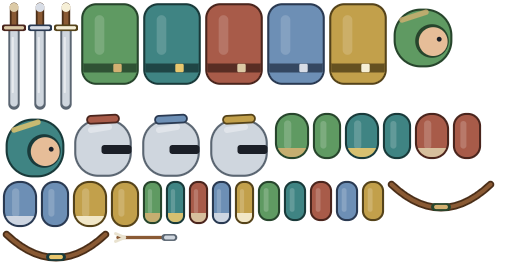
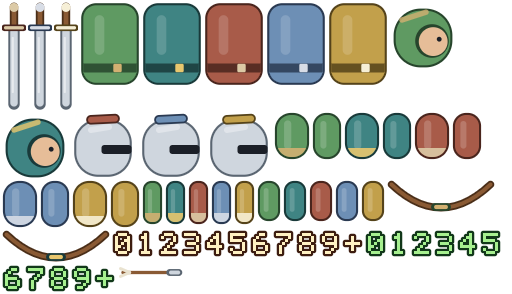
feat(render): liczby obrażeń i leczenia z puli (M2-7)
Atlas placeholder dostał dwa zestawy cyfr (obrażenia, leczenie z plusem).
Liczby pojawiają się nad trafioną albo uleczoną jednostką, unoszą się
i zanikają; pochodzą z puli stałej wielkości i są rysowane cyframi
z atlasu, bez tworzenia napisów. Błysk trafienia działa od M2-5, a odrzut
jest wygładzany interpolacją pozycji między tickami.

Przewijanie w piaskownicy rysuje klatkę po każdym ticku, żeby efekty
starzały się jak przy odtwarzaniu.

diff --git a/src/render/canvas-renderer.ts b/src/render/canvas-renderer.ts
@@ -2,8 +2,11 @@
 // tablic, domknięć ani napisów tworzonych co klatkę. Wszystkie bufory powstają raz.
 import type { UnitVisual } from '../content/compile.ts';
 import type { RawRig } from '../content/schema-rig.ts';
+import { createRng, nextRange } from '../core/rng.ts';
 import {
   type Battle,
+  EVENT_DAMAGED,
+  EVENT_HEALED,
   type EventBuffer,
   isAlive,
   MAX_PROJECTILES,
@@ -25,6 +28,18 @@ import {
 import { type Atlas, type Sprite, VARIANT_DARK, VARIANT_NORMAL, VARIANT_WHITE } from './atlas.ts';
 import { drawBackground } from './background.ts';
 import { type Camera, createCamera, fitCamera, GROUND_Y } from './camera.ts';
+import {
+  clearFloatTexts,
+  createFloatTexts,
+  digitAt,
+  digitCount,
+  FLOAT_KIND_DAMAGE,
+  FLOAT_KIND_HEAL,
+  FLOAT_LIFE_MS,
+  FLOAT_RISE,
+  spawnFloatText,
+  updateFloatTexts,
+} from './float-text.ts';
 import type { Renderer } from './renderer.ts';
 import {
   type CompiledRig,
@@ -37,6 +52,9 @@ import {
 import type { Viewport } from './viewport.ts';
 
 const STRING_COLOR = '#e9e2cf';
+/** Skala cyfr liczb nad jednostkami i odstęp między nimi, w jednostkach logicznych sceny. */
+const NUMBER_SCALE = 2;
+const NUMBER_ADVANCE = 11;
 const HP_BACK = '#11151c';
 const HP_PLAYER = '#7fd36b';
 const HP_ENEMY = '#e0705c';
@@ -86,6 +104,80 @@ export function createCanvasRenderer(
   const boneSprites: (Sprite | null)[] = new Array(MAX_UNITS * maxBones).fill(null);
   const projectileSprites: (Sprite | null)[] = new Array(MAX_UNITS).fill(null);
   let battle: Battle | null = null;
+
+  // Liczby obrażeń i leczenia: cyfry z atlasu, rozrzut poziomy z RNG kosmetycznego.
+  const floatTexts = createFloatTexts();
+  const jitter = createRng(1);
+  const digitSprites: (Sprite | null)[] = [];
+  for (const set of ['dmg', 'heal']) {
+    for (let digit = 0; digit <= 9; digit++) {
+      digitSprites.push(atlas.sprites.get(`fx/${set}_${digit}`) ?? null);
+    }
+  }
+  const plusSprite = atlas.sprites.get('fx/heal_plus') ?? null;
+
+  /** Dodaje liczbę nad głową jednostki; pozycja ze stanu po ostatnim ticku. */
+  function spawnNumber(current: Battle, unit: number, value: number, kind: number): void {
+    const look = looks[unit];
+    if (look === null || look === undefined) return;
+    const facing = unit < TEAM_SIZE ? 1 : -1;
+    const slot = unit < TEAM_SIZE ? unit : unit - TEAM_SIZE;
+    const x = (current.state.x[unit] ?? 0) * camera.scale - facing * slot * LANE_SHIFT;
+    const head =
+      GROUND_Y + LANE_FRONT - slot * LANE_STEP - (look.rig.hipHeight + UPPER_BODY) * look.scale;
+    spawnFloatText(floatTexts, x + nextRange(jitter, -10, 10), head - 20, value, kind);
+  }
+
+  function drawGlyph(
+    image: CanvasImageSource,
+    sprite: Sprite | null | undefined,
+    s: number,
+    x: number,
+    y: number,
+  ): void {
+    if (sprite === null || sprite === undefined) return;
+    const scale = NUMBER_SCALE * s;
+    ctx.setTransform(scale, 0, 0, scale, x * s, y * s);
+    ctx.drawImage(
+      image,
+      sprite.sx,
+      sprite.sy,
+      sprite.sw,
+      sprite.sh,
+      -sprite.pivotX,
+      -sprite.pivotY,
+      sprite.width,
+      sprite.height,
+    );
+  }
+
+  function drawNumbers(viewport: Viewport): void {
+    const image = atlas.images[VARIANT_NORMAL];
+    if (image === undefined) return;
+    for (let i = 0; i < floatTexts.count; i++) {
+      const text = floatTexts.items[i];
+      if (text === undefined) continue;
+      const progress = text.ageMs / FLOAT_LIFE_MS;
+      // Szybki start, łagodne wyhamowanie; zanikanie dopiero pod koniec.
+      const y = text.y - FLOAT_RISE * (1 - (1 - progress) * (1 - progress));
+      ctx.globalAlpha = progress < 0.6 ? 1 : 1 - (progress - 0.6) / 0.4;
+
+      const heal = text.kind === FLOAT_KIND_HEAL;
+      const digits = digitCount(text.value);
+      const glyphs = heal ? digits + 1 : digits;
+      let x = text.x - ((glyphs - 1) * NUMBER_ADVANCE) / 2;
+      if (heal) {
+        drawGlyph(image, plusSprite, viewport.scale, x, y);
+        x += NUMBER_ADVANCE;
+      }
+      for (let d = 0; d < digits; d++) {
+        const sprite = digitSprites[(heal ? 10 : 0) + digitAt(text.value, digits, d)];
+        drawGlyph(image, sprite, viewport.scale, x, y);
+        x += NUMBER_ADVANCE;
+      }
+    }
+    ctx.globalAlpha = 1;
+  }
 
   function resolveLook(visual: UnitVisual): UnitLook {
     const rig = rigs.get(visual.rig);
@@ -329,6 +421,7 @@ export function createCanvasRenderer(
       battle = next;
       fitCamera(camera, next.width);
       resetAnimator(animator);
+      clearFloatTexts(floatTexts);
       boneSprites.fill(null);
       for (let unit = 0; unit < MAX_UNITS; unit++) {
         const visual = visuals[unit] ?? null;
@@ -350,16 +443,29 @@ export function createCanvasRenderer(
     },
     consume(events: EventBuffer): void {
       animatorOnEvents(animator, events);
+      if (battle === null) return;
+      for (let i = 0; i < events.count; i++) {
+        const type = events.type[i];
+        const value = events.b[i] ?? 0;
+        if (value <= 0) continue;
+        if (type === EVENT_DAMAGED) {
+          spawnNumber(battle, events.a[i] ?? 0, value, FLOAT_KIND_DAMAGE);
+        } else if (type === EVENT_HEALED) {
+          spawnNumber(battle, events.a[i] ?? 0, value, FLOAT_KIND_HEAL);
+        }
+      }
     },
     draw(viewport: Viewport, alpha: number, frameMs: number): void {
       drawBackground(ctx, viewport);
       if (battle === null) return;
+      updateFloatTexts(floatTexts, frameMs);
       // Od najdalszego slotu do najbliższego, żeby bliższe postacie zasłaniały dalsze.
       for (let slot = TEAM_SIZE - 1; slot >= 0; slot--) {
         drawUnit(battle, slot, viewport, alpha, frameMs);
         drawUnit(battle, TEAM_SIZE + slot, viewport, alpha, frameMs);
       }
       drawProjectiles(battle, viewport, alpha);
+      drawNumbers(viewport);
       ctx.setTransform(viewport.scale, 0, 0, viewport.scale, 0, 0);
     },
     endBattle(): void {

diff --git a/src/render/float-text.test.ts b/src/render/float-text.test.ts
@@ -1,0 +1,69 @@
+import { describe, expect, it } from 'vitest';
+import {
+  clearFloatTexts,
+  createFloatTexts,
+  digitAt,
+  digitCount,
+  FLOAT_KIND_DAMAGE,
+  FLOAT_KIND_HEAL,
+  FLOAT_LIFE_MS,
+  spawnFloatText,
+  updateFloatTexts,
+} from './float-text.ts';
+
+describe('liczby nad jednostkami', () => {
+  it('nowa liczba startuje z wiekiem zero w podanym miejscu', () => {
+    const texts = createFloatTexts();
+    spawnFloatText(texts, 100, 200, 40, FLOAT_KIND_DAMAGE);
+    expect(texts.count).toBe(1);
+    expect(texts.items[0]).toEqual({ x: 100, y: 200, value: 40, kind: 0, ageMs: 0 });
+  });
+
+  it('liczby starzeją się i znikają po czasie życia, młodsze zostają', () => {
+    const texts = createFloatTexts();
+    spawnFloatText(texts, 1, 0, 10, FLOAT_KIND_DAMAGE);
+    updateFloatTexts(texts, FLOAT_LIFE_MS - 100);
+    spawnFloatText(texts, 2, 0, 20, FLOAT_KIND_HEAL);
+    updateFloatTexts(texts, 150);
+    expect(texts.count).toBe(1);
+    expect(texts.items[0]?.value).toBe(20);
+    expect(texts.items[0]?.ageMs).toBe(150);
+  });
+
+  it('obiekty puli są używane ponownie', () => {
+    const texts = createFloatTexts();
+    spawnFloatText(texts, 0, 0, 1, FLOAT_KIND_DAMAGE);
+    const first = texts.items[0];
+    updateFloatTexts(texts, FLOAT_LIFE_MS);
+    expect(texts.count).toBe(0);
+    spawnFloatText(texts, 5, 6, 7, FLOAT_KIND_HEAL);
+    expect(texts.items[0]).toBe(first);
+    expect(first).toEqual({ x: 5, y: 6, value: 7, kind: 1, ageMs: 0 });
+  });
+
+  it('pełna pula pomija nowe liczby zamiast alokować', () => {
+    const texts = createFloatTexts();
+    const capacity = texts.items.length;
+    for (let i = 0; i < capacity + 10; i++) spawnFloatText(texts, i, 0, i, FLOAT_KIND_DAMAGE);
+    expect(texts.count).toBe(capacity);
+    expect(texts.items).toHaveLength(capacity);
+    clearFloatTexts(texts);
+    expect(texts.count).toBe(0);
+  });
+});
+
+describe('cyfry', () => {
+  it('liczy cyfry liczby', () => {
+    expect([0, 7, 10, 99, 100, 12345].map(digitCount)).toEqual([1, 1, 2, 2, 3, 5]);
+  });
+
+  it('zwraca cyfry od lewej', () => {
+    const digits = (value: number) => {
+      const count = digitCount(value);
+      return Array.from({ length: count }, (_, i) => digitAt(value, count, i));
+    };
+    expect(digits(0)).toEqual([0]);
+    expect(digits(40)).toEqual([4, 0]);
+    expect(digits(1205)).toEqual([1, 2, 0, 5]);
+  });
+});

diff --git a/scripts/lib/placeholder-parts.ts b/scripts/lib/placeholder-parts.ts
@@ -215,6 +215,44 @@ function arrow(): Image {
   return image;
 }
 
+/** Cyfry i plus dla liczb obrażeń i leczenia: font 5×7, wiersze od góry. */
+const GLYPHS: Readonly<Record<string, readonly string[]>> = {
+  '0': ['01110', '10001', '10011', '10101', '11001', '10001', '01110'],
+  '1': ['00100', '01100', '00100', '00100', '00100', '00100', '01110'],
+  '2': ['01110', '10001', '00001', '00010', '00100', '01000', '11111'],
+  '3': ['11110', '00001', '00001', '01110', '00001', '00001', '11110'],
+  '4': ['00010', '00110', '01010', '10010', '11111', '00010', '00010'],
+  '5': ['11111', '10000', '11110', '00001', '00001', '10001', '01110'],
+  '6': ['00110', '01000', '10000', '11110', '10001', '10001', '01110'],
+  '7': ['11111', '00001', '00010', '00100', '01000', '01000', '01000'],
+  '8': ['01110', '10001', '10001', '01110', '10001', '10001', '01110'],
+  '9': ['01110', '10001', '10001', '01111', '00001', '00010', '01100'],
+  plus: ['00000', '00100', '00100', '11111', '00100', '00100', '00000'],
+};
+
+/** Znak: komórka fontu to 1 jednostka rigu, plus margines 1 na obrys. */
+export const GLYPH: PartSpec = { width: 7, height: 9, pivotX: 3.5, pivotY: 4.5 };
+
+function glyph(rows: readonly string[], color: string, outline: string): Image {
+  const image = blank(GLYPH);
+  const cells: Shape[] = [];
+  rows.forEach((row, y) => {
+    for (let x = 0; x < row.length; x++) {
+      if (row[x] === '1') cells.push(box(1.5 + x, 1.5 + y, 0.5, 0.5, 0.12));
+    }
+  });
+  const shape = union(...cells);
+  fill(image, inset(shape, -0.75 * P), hex(outline));
+  fill(image, shape, hex(color));
+  return image;
+}
+
+/** Zestawy znaków: `fx/<zestaw>_<znak>`. */
+const GLYPH_SETS = [
+  { id: 'dmg', color: '#fff1c2', outline: '#3d1d10' },
+  { id: 'heal', color: '#a6f08f', outline: '#12381a' },
+] as const;
+
 export interface PlaceholderSprite {
   /** Nazwa w atlasie: `<skórka>/<kość lub slot>` albo `fx/<nazwa>`. */
   readonly name: string;
@@ -242,5 +280,14 @@ export function placeholderSprites(): PlaceholderSprite[] {
     );
   }
   sprites.push({ name: 'fx/arrow', part: PARTS.arrow, image: arrow() });
+  for (const set of GLYPH_SETS) {
+    for (const [name, rows] of Object.entries(GLYPHS)) {
+      sprites.push({
+        name: `fx/${set.id}_${name}`,
+        part: GLYPH,
+        image: glyph(rows, set.color, set.outline),
+      });
+    }
+  }
   return sprites;
 }

diff --git a/src/render/float-text.ts b/src/render/float-text.ts
@@ -1,0 +1,71 @@
+// Liczby obrażeń i leczenia unoszące się nad jednostkami. Pula stałej wielkości;
+// rysowanie z cyfr w atlasie, bez tworzenia napisów.
+import { createPool, type Pool, poolAcquire, poolClear, poolReleaseAt } from '../core/pool.ts';
+
+export const FLOAT_KIND_DAMAGE = 0;
+export const FLOAT_KIND_HEAL = 1;
+
+/** Czas życia liczby. */
+export const FLOAT_LIFE_MS = 800;
+/** Jak wysoko liczba unosi się przez swoje życie, w jednostkach logicznych sceny. */
+export const FLOAT_RISE = 34;
+const CAPACITY = 64;
+
+export interface FloatText {
+  x: number;
+  y: number;
+  value: number;
+  kind: number;
+  ageMs: number;
+}
+
+export type FloatTexts = Pool<FloatText>;
+
+export function createFloatTexts(): FloatTexts {
+  return createPool(CAPACITY, () => ({ x: 0, y: 0, value: 0, kind: 0, ageMs: 0 }));
+}
+
+/** Dodaje liczbę. Gdy pula jest pełna, nowa liczba przepada: starsze są ważniejsze niż komplet. */
+export function spawnFloatText(
+  texts: FloatTexts,
+  x: number,
+  y: number,
+  value: number,
+  kind: number,
+): void {
+  const text = poolAcquire(texts);
+  if (text === null) return;
+  text.x = x;
+  text.y = y;
+  text.value = value;
+  text.kind = kind;
+  text.ageMs = 0;
+}
+
+/** Postarza liczby i zwalnia te, których czas minął. */
+export function updateFloatTexts(texts: FloatTexts, dtMs: number): void {
+  for (let i = texts.count - 1; i >= 0; i--) {
+    const text = texts.items[i];
+    if (text === undefined) continue;
+    text.ageMs += dtMs;
+    if (text.ageMs >= FLOAT_LIFE_MS) poolReleaseAt(texts, i);
+  }
+}
+
+export function clearFloatTexts(texts: FloatTexts): void {
+  poolClear(texts);
+}
+
+/** Liczba cyfr dziesiętnych nieujemnej liczby całkowitej. */
+export function digitCount(value: number): number {
+  let count = 1;
+  for (let rest = value; rest >= 10; rest = Math.floor(rest / 10)) count++;
+  return count;
+}
+
+/** Cyfra na pozycji `index` licząc od lewej (0 = najbardziej znacząca). */
+export function digitAt(value: number, count: number, index: number): number {
+  let divisor = 1;
+  for (let i = count - 1 - index; i > 0; i--) divisor *= 10;
+  return Math.floor(value / divisor) % 10;
+}

diff --git a/src/tools/sandbox.ts b/src/tools/sandbox.ts
@@ -55,7 +55,11 @@ export async function startSandbox(
   const startTick = Number(new URLSearchParams(location.search).get('tick') ?? '0');
   if (Number.isInteger(startTick) && startTick > 0) {
     runner.loop.paused = true;
-    for (let i = 0; i < startTick; i++) runner.stepOnce();
+    // Klatka po każdym ticku, żeby animacje i efekty starzały się tak jak przy odtwarzaniu.
+    for (let i = 0; i < startTick; i++) {
+      runner.stepOnce();
+      runner.frame(viewport, 0);
+    }
   }
 
   const status = document.createElement('pre');

diff --git a/scripts/lib/atlas-build.test.ts b/scripts/lib/atlas-build.test.ts
@@ -112,7 +112,10 @@ describe('atlas placeholder', () => {
       }
     }
     expect(names).toContain('fx/arrow');
-    expect(names).toHaveLength(SKINS.length * 7 + 1);
+    expect(names).toContain('fx/dmg_0');
+    expect(names).toContain('fx/heal_plus');
+    // Części skórek, strzała i dwa zestawy po jedenaście znaków.
+    expect(names).toHaveLength(SKINS.length * 7 + 1 + 22);
   });
 
   it('każdy sprite ma rozmiar części w pikselach atlasu i nie jest pusty', () => {

diff --git a/docs/ROADMAP.md b/docs/ROADMAP.md
@@ -59,7 +59,7 @@ Cel: walka widoczna na ekranie, port prototypu na docelową architekturę, piask
 | M2-4 | Klipy: schemat, kompilacja, próbkowanie smoothstep, znaczniki; port idle, walk, slash, shoot | 1,5 | Walidator sprawdza zgodność znacznika `hit` z `hitFraction` | gotowe |
 | M2-5 | Sterowanie animacją ze stanu sim: mapowanie stanów, postęp ataku z sim, faza chodu z dystansu, blend pozy, śmierć | 1,5 | Trafienie w animacji wypada w ticku trafienia z sim przy każdej prędkości | gotowe |
 | M2-6 | Pociski i elementy dynamiczne: pula sprite'ów pocisków, cięciwa łuku | 1 | Strzała widoczna od wystrzału do trafienia lub krawędzi pola | gotowe |
-| M2-7 | Efekty: błysk trafienia, liczby obrażeń i leczenia z puli, płynne pokazanie odrzutu | 1 | Każde zdarzenie `Damaged`, `Healed` i `KnockedBack` ma efekt; brak alokacji | — |
+| M2-7 | Efekty: błysk trafienia, liczby obrażeń i leczenia z puli, płynne pokazanie odrzutu | 1 | Każde zdarzenie `Damaged`, `Healed` i `KnockedBack` ma efekt; brak alokacji | gotowe; pomiar alokacji w M2-10 |
 | M2-8 | Debug: pivoty i ramki, zasięgi i cele, overlay wydajności, krokowanie | 1 | Przełączane klawiszami w dev; brak w `dist/` | — |
 | M2-9 | Piaskownica walki: `tools.html`, dowolne składy, krokowanie, prędkość | 1,5 | Dowolna walka z testów golden daje się obejrzeć w piaskownicy | — |
 | M2-10 | Pomiar wydajności i zapis wyników | 0,5 | Render klatki < 4 ms na desktopie przy 10 jednostkach; 0 alokacji w stanie ustalonym; liczby zapisane w ARCHITECTURE.md | — |
